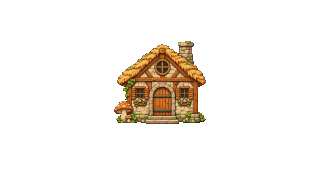
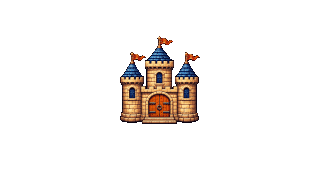
feat(p3.7.4): castelo no Fantasy Village
Casa, janelas acesas e portão de 4 quadros desenhados pelo Codex,
processados na caixa da casa antiga. Sem fumaça (castelo sem chaminé).
Teste T40c.

Changed region(s): [[0.3438, 0.1875, 0.6562, 0.6562]]

diff --git a/test/habitat-p3-refino.test.js b/test/habitat-p3-refino.test.js
@@ -52,6 +52,34 @@ test("T40a: objetos do jardim ficam no gramado, visíveis e fora do primeiro pla
   }
 });
 
+test("T40c: Fantasy Village tem castelo com portão na área de clique, alinhado à saída dos moradores e sem fumaça", () => {
+  const { manifest, png } = tema("fantasy-village");
+  const hit = manifest.cottageHitBox;
+  const porta = manifest.layers.door;
+  assert.ok(hit.width >= 70 && hit.height >= 80, "castelo pequeno demais");
+  assert.ok(porta.x >= hit.x && porta.x + porta.width <= hit.x + hit.width, "portão fora da largura do castelo");
+  assert.ok(porta.y >= hit.y && porta.y + porta.height <= hit.y + hit.height + 2, "portão fora da altura do castelo");
+  assert.ok(Math.abs(porta.x + porta.width / 2 - manifest.doorAnchor.x) <= 3, "portão longe da saída dos moradores");
+  assert.deepStrictEqual(manifest.layers.smoke.frames, [], "castelo não tem chaminé");
+  for (const f of Object.values(porta.frames)) {
+    const q = png(f);
+    assert.deepStrictEqual([q.width, q.height], [porta.width, porta.height], `${f} com tamanho diferente`);
+  }
+  // Janelas acesas: a camada âmbar existe e fica só sobre o castelo.
+  const luz = png(manifest.layers.cottageAmber);
+  let acesos = 0;
+  let fora = 0;
+  for (let y = 0; y < luz.height; y += 1) {
+    for (let x = 0; x < luz.width; x += 1) {
+      if (alfa(luz, x, y) === 0) continue;
+      acesos += 1;
+      if (x < hit.x || x >= hit.x + hit.width || y < hit.y || y >= hit.y + hit.height) fora += 1;
+    }
+  }
+  assert.ok(acesos >= 20, "sem janelas acesas");
+  assert.strictEqual(fora, 0, "luz âmbar fora do castelo");
+});
+
 test("T40b: o jardim é desenhado depois do fundo e da casa, e os moradores nunca recebem o filtro noturno", () => {
   const src = fs.readFileSync(path.join(RAIZ, "src", "habitat", "habitat-renderer.js"), "utf8");
   const iJardim = src.indexOf("el.dataset.garden = name");

diff --git a/tools/processar-arte-p37.py b/tools/processar-arte-p37.py
@@ -52,14 +52,67 @@ def jardim(tema, entrada, previa=None, cores=64):
     print("jardim atualizado em", pasta)
 
 
+# Castelo do Fantasy Village (P3.7.4): ocupa a caixa da casa antiga, com a base no mesmo chão.
+CASTELO_CAIXA = (92, 88)
+CASTELO_CHAO_Y = 124
+# Portão (arco + soleira) relativo ao contorno do castelo: centro x, base, largura, altura (medido no fv-castle.png).
+CASTELO_PORTAO_REL = (0.491, 0.978, 0.390, 0.345)
+
+
+def castelo(entrada_dir, previa=None, cores=64):
+    tema = "fantasy-village"
+    pasta = RAIZ / "assets" / "habitat" / tema
+    man_path = pasta / "habitat-manifest.json"
+    man = json.loads(man_path.read_text(encoding="utf-8"))
+    L = man["layers"]
+    cw, ch = man["canvas"]["width"], man["canvas"]["height"]
+    casa_full = P.tirar_magenta(entrada_dir / "fv-castle.png")
+    acesa_full = P.tirar_magenta(entrada_dir / "fv-castle-lit.png")
+    caixa = P.caixa_do_conteudo(casa_full)
+    tw, th = CASTELO_CAIXA
+    ax0, ay0 = man["doorAnchor"]["x"] - tw // 2, CASTELO_CHAO_Y - th
+    esc = P.escala_caber([caixa], tw, th)
+    casa_ok = np.zeros((ch, cw, 4), dtype=np.uint8)
+    acesa_ok = np.zeros((ch, cw, 4), dtype=np.uint8)
+    P.colar(casa_ok, P.encaixar(casa_full, caixa, esc, tw, th), ax0, ay0)
+    P.colar(acesa_ok, P.encaixar(acesa_full, caixa, esc, tw, th), ax0, ay0)  # mesmo desenho: mesma caixa e escala
+    hx0, hy0, hx1, hy1 = P.caixa_do_conteudo(casa_ok)
+    hw, hh = hx1 - hx0, hy1 - hy0
+    cx_rel, base_rel, pw_rel, ph_rel = CASTELO_PORTAO_REL
+    pw, ph = round(pw_rel * hw), round(ph_rel * hh)
+    L["door"].update(x=round(hx0 + cx_rel * hw - pw / 2), y=round(hy0 + base_rel * hh - ph), width=pw, height=ph)
+    man["cottageHitBox"] = {"x": hx0, "y": hy0, "width": hw, "height": hh}
+    # Castelo não tem chaminé: sem fumaça (o renderizador ignora a lista vazia); as janelas âmbar mostram a atividade.
+    for f in L["smoke"]["frames"]:
+        (pasta / f).unlink(missing_ok=True)
+    L["smoke"]["frames"] = []
+    P.salvar(casa_ok, pasta / L["cottageNight"], cores)
+    P.salvar(P.luz_ambar(casa_ok, acesa_ok), pasta / L["cottageAmber"], cores)
+    quadros = P.celulas_de(P.tirar_magenta(entrada_dir / "fv-castle-door.png"), 4)[0]
+    uniao = P.uniao_de([P.caixa_do_conteudo(q) for q in quadros])
+    esc_porta = P.escala_caber([uniao], pw, ph)
+    for q, nome in zip(quadros, ("closed", "opening", "open", "closing")):
+        P.salvar(P.encaixar(q, uniao, esc_porta, pw, ph), pasta / L["door"]["frames"][nome], cores)
+    man_path.write_text(json.dumps(man, indent=2, ensure_ascii=False) + "\n", encoding="utf-8")
+    if previa:
+        P.previa(pasta, man, Path(previa).parent)
+        (Path(previa).parent / "_previa-dia.png").replace(previa)
+        (Path(previa).parent / "_previa-noite.png").unlink(missing_ok=True)
+    print("castelo:", man["cottageHitBox"], "porta:", {k: L["door"][k] for k in ("x", "y", "width", "height")})
+
+
 def main():
     ap = argparse.ArgumentParser()
-    ap.add_argument("acao", choices=["jardim"])
+    ap.add_argument("acao", choices=["jardim", "castelo"])
     ap.add_argument("tema", choices=sorted(JARDIM_POS))
-    ap.add_argument("--entrada", required=True)
+    ap.add_argument("--entrada", required=True, help="jardim: o PNG da folha; castelo: a pasta com fv-castle*.png")
     ap.add_argument("--previa", default=None)
     a = ap.parse_args()
-    jardim(a.tema, Path(a.entrada), a.previa)
+    if a.acao == "castelo":
+        assert a.tema == "fantasy-village", "o castelo é só do Fantasy Village"
+        castelo(Path(a.entrada), a.previa)
+    else:
+        jardim(a.tema, Path(a.entrada), a.previa)
 
 
 if __name__ == "__main__":

diff --git a/docs/roadmap/p3/P3.7-refino-visual.md b/docs/roadmap/p3/P3.7-refino-visual.md
@@ -10,7 +10,7 @@
 - [x] **P3.7.1** **Bug do jardim:** o dono liga os objetos em Ajustes e não vê nada. Reproduzir no app (prefs atuais: os 4 ligados, tema Fantasy Village) e confirmar a causa. Hipótese: a camada de primeiro plano (`layer-6-foreground.png`) é desenhada por cima dos objetos, que ficam em y 168–176, na faixa do primeiro plano. Corrigir (ordem das camadas ou posições por tema) e testar nos 4 temas. *Evidência (27/11):* causa confirmada medindo os PNGs: com a arte antiga (quadros de 24 px em y 168–176) o banco e a caixa de correio do Cozy v2 ficavam 100% cobertos pelo primeiro plano e os do Fantasy Village, parcialmente e com ~15 px. Correção: objetos redesenhados pelo Codex, processados por `tools/processar-arte-p37.py` em quadros de 32 px e reposicionados no gramado (y 150–162, longe das estações) nos 3 temas novos; o clássico já estava visível. Conferido no app real (perfil temporário, Fantasy Village, os 4 ligados): os 4 aparecem. `T40a` mede cobertura ≤ 5%, ≥ 150 px visíveis e base no chão nos 4 temas, e falha com a arte antiga.
 - [ ] **P3.7.2** **Árvores separadas do fundo:** tirar as árvores do `A1` e desenhá-las como sprites próprios (variações por tema, ver briefing), com posição esquerda e direita no manifesto.
 - [ ] **P3.7.3** **Decidir com o dono como variar as árvores:** automático (muda a cada dia, sem repetir os dois lados) ou escolha em Ajustes (por lado). Implementar a opção escolhida.
-- [ ] **P3.7.4** **Castelo do Fantasy Village:** substituir casa, casa acesa e porta (`A2`, `A3`, `A5`) por um castelo pequeno de pedra com torres, mantendo a geometria (porta no `doorAnchor`, área de clique e fumaça/estandarte por tema).
+- [x] **P3.7.4** **Castelo do Fantasy Village:** substituir casa, casa acesa e porta (`A2`, `A3`, `A5`) por um castelo pequeno de pedra com torres, mantendo a geometria (porta no `doorAnchor`, área de clique e fumaça/estandarte por tema). *Evidência (27/11):* `tools/processar-arte-p37.py castelo` gera casa, casa acesa e os 4 quadros do portão a partir de `fv-castle*.png` (castelo 80x88 na caixa da casa antiga, base em y 124, portão 31x30 centrado na saída dos moradores, área de clique = contorno do castelo). Castelo não tem chaminé: fumaça desligada no FV (lista de quadros vazia, já tratada pelo renderizador; a atividade aparece nas janelas âmbar). Conferido no app real de noite com Clawd fora: [`p3.7-castelo-noite.png`](../../evidencias-p3/p3.7-castelo-noite.png). `T40c`; 148 testes de Habitat verdes; `audit-repository-assets --prospective` 0 erros. Falta o dono conferir o clique na construção (CP-P3.7).
 - [ ] **P3.7.5** **Aviso de conclusão integrado à ilha:** trocar o card de conclusão atual por um elemento da cena (placa de madeira/pergaminho com bandeirinha que surge ao lado da estação do morador, com o nome do provedor e um ícone), clicável para focar a sessão como hoje (D3 do projeto), sumindo sozinho. Sem janela nova e sem texto do prompt.
 - [ ] **P3.7.6** Processar a arte entregue pelo Codex com o pipeline existente (magenta → alfa real), testes `T40` (camadas do jardim visíveis, árvores por tema, castelo no FV, aviso de conclusão sem dados sensíveis) e aprovação visual do dono nos 4 temas, de dia e de noite.
 
